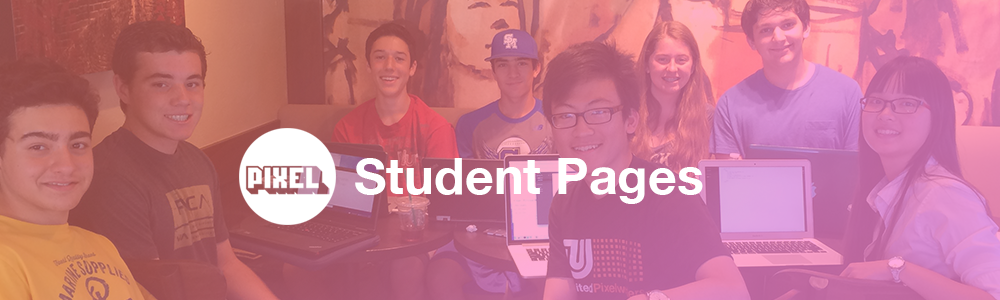
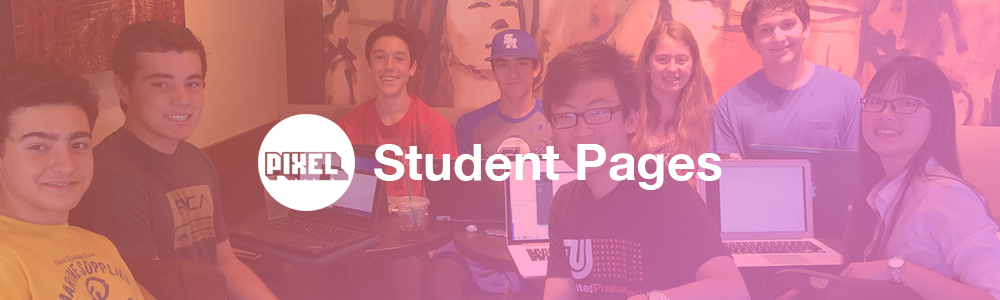
Added Gustavo's page and altered image

Changed region(s): [[0.217, 0.36, 0.744, 0.75]]

diff --git a/students/gustavozertuche/gustavozertuche.js b/students/gustavozertuche/gustavozertuche.js
@@ -1,0 +1,31 @@
+var pathObj = {
+    "sig": {
+        "strokepath": [
+            {
+                "path": "m 33.353553,70.274197 c 0.210305,-0.210305 0.435065,-0.407086 0.630915,-0.630914 0.173108,-0.197839 0.315457,-0.42061 0.473186,-0.630915 0.315458,-0.42061 0.637134,-0.836627 0.946372,-1.26183 0.532034,-0.731547 1.107843,-1.434999 1.577287,-2.208202 0.427093,-0.703446 0.736068,-1.472134 1.104101,-2.208202 3.068522,-6.137043 1.713244,-3.186974 4.731862,-10.410094 0.636263,-1.522487 1.322299,-3.025782 1.892744,-4.574133 0.90241,-2.449399 1.650734,-4.953187 2.523659,-7.413249 1.273495,-3.588941 3.071231,-8.057772 4.258675,-11.829653 0.409878,-1.301965 0.717346,-2.634198 1.104101,-3.943218 0.296826,-1.004642 0.645354,-1.993451 0.946373,-2.996845 0.172254,-0.57418 0.338391,-1.150906 0.473186,-1.735016 0.02364,-0.10246 0.07435,-0.241103 0,-0.315457 -0.05258,-0.05258 -0.134216,0.08719 -0.157729,0.157728 -0.137102,0.411307 -0.210305,0.84122 -0.315457,1.26183 -0.280996,1.123983 -1.236973,4.083776 -1.104101,5.678234 0.05401,0.648085 0.03208,1.414878 0.473186,1.892744 0.814137,0.881982 2.284312,-0.292299 2.681388,-0.788644 1.399702,-1.749627 2.756199,-4.72042 3.785489,-6.624605 0.955162,-1.767051 1.248862,-2.269467 2.36593,-3.785489 0.3556,-0.4826 0.680218,-0.995675 1.104101,-1.419559 0.07435,-0.07435 0,0.210305 0,0.315458 0,0.745517 0.02889,0.04218 -0.315457,1.419558 -2.055796,8.223185 0.435712,-1.34025 -1.577287,6.309149 -1.262048,4.79578 -2.126795,8.275884 -3.62776,13.091482 -0.529395,1.698476 -1.08825,3.38998 -1.735016,5.047319 -2.417999,6.196122 -3.735587,9.110406 -6.940063,14.826498 -1.58223,2.822357 -2.582655,4.342354 -5.205048,6.309148 -0.399025,0.29927 -0.973434,0.696249 -1.419558,0.473187 -2.051393,-1.025697 -1.762416,-4.726598 -1.735016,-6.15142 0.05081,-2.641832 1.202563,-7.834991 1.892745,-9.936908 0.442573,-1.347836 1.959105,-5.099849 3.470031,-6.466877 0.878926,-0.795219 2.26111,-1.804698 3.312303,-0.473187 0.526323,0.666676 0.750615,1.539401 0.946372,2.365931 0.406599,1.716749 0.552577,4.625937 0.630915,6.466877 0.122475,2.878161 0.114861,5.80848 0.473186,8.675079 0.06876,0.550096 0.680887,3.62563 1.26183,4.100946 0.272969,0.223338 0.707148,-0.214027 0.946372,-0.473186 0.41588,-0.450537 0.679313,-1.025364 0.946372,-1.577287 3.295316,-6.810319 -0.643789,0.250719 3.312303,-6.782334 0.300599,-0.534397 0.578489,-1.086776 0.946372,-1.577287 0.267675,-0.3569 0.500249,-0.946373 0.946373,-0.946373 0.659206,0 0.47567,2.170946 0.473186,2.208202 -0.02473,0.370947 -0.125979,0.733689 -0.157729,1.104101 -0.02591,0.302278 -0.4721,5.161519 -0.315457,6.466877 0.07748,0.6457 0.258348,1.278923 0.473186,1.892745 0.289115,0.826043 0.725143,2.082223 2.050473,1.419558 0.536175,-0.268087 0.830557,-0.886147 1.104101,-1.419558 0.784413,-1.529605 1.437635,-3.125803 2.050473,-4.731862 2.4011,-6.292538 2.512849,-7.266449 4.258675,-13.40694 3.253714,-11.444098 2.300675,-8.656148 6.309149,-20.031545 0.762863,-2.164884 1.481447,-4.348772 2.36593,-6.466877 1.115008,-2.670151 2.281428,-5.325121 3.62776,-7.886436 0.814278,-1.549113 1.735526,-3.058137 2.839117,-4.416403 0.29654,-0.364973 0.958071,-0.989902 1.26183,-0.630915 0.586261,0.692854 0.473186,1.773781 0.473186,2.681388 0,2.004113 -0.258925,4.001063 -0.473186,5.993691 -0.311647,2.898312 -0.756791,5.780823 -1.104101,8.675078 -0.786083,6.550689 -1.33778,11.967706 -1.577287,18.769717 -0.125809,3.572969 -0.04062,7.150598 0,10.725552 0.02597,2.285145 0.394643,6.450233 0.788643,8.359621 0.332792,1.612758 0.946373,3.154574 1.419559,4.731861",
+                "duration": 1800
+            },
+            {
+                "path": "m 61.271534,39.674828 c 3.760404,-0.827491 7.439435,-2.003716 11.198738,-2.839116 2.778155,-0.617368 5.568964,-1.176885 8.359622,-1.735016 3.255745,-0.651149 6.506695,-1.331747 9.77918,-1.892745 2.249861,-0.38569 4.522595,-0.623552 6.782334,-0.946372 10.842802,-1.548972 6.903302,-0.896671 14.984222,-2.36593",
+                "duration": 600
+            },
+            {
+                "path": "m 73.574373,21.851484 c 1.849525,-1.54127 0.579091,-0.605002 4.100947,-2.36593 0.841219,-0.42061 1.647814,-0.919108 2.523659,-1.26183 3.302393,-1.29224 6.139745,-2.028568 9.621451,-2.681388 0.606885,-0.113791 4.227368,-0.810319 4.88959,0.315458 0.362577,0.616381 -0.249893,1.44532 -0.630915,2.050473 -1.204079,1.912361 -6.002813,5.392693 -6.940063,6.151419 -1.684891,1.36396 -3.376048,2.720332 -5.047319,4.100947 -0.747414,0.61743 -1.564129,1.168162 -2.208201,1.892744 -0.220916,0.24853 -0.647636,0.961471 -0.315458,0.946372 1.739922,-0.07909 6.231959,-2.146835 7.728707,-2.681388 2.348619,-0.838792 4.680155,-1.75387 7.097792,-2.36593 1.751559,-0.443433 3.555958,-0.788644 5.362776,-0.788644 0.496001,0 1.413611,0.316435 1.261831,0.788644 -1.216198,3.78372 -9.029958,8.270023 -10.725554,9.463722 -3.863709,2.720052 -7.808119,5.324249 -11.671924,8.044164 -8.424598,5.930474 -14.43972,10.274887 -22.397476,16.561515 -1.9333,1.527307 -3.80369,3.132985 -5.678234,4.731861 -0.08945,0.07629 0.224648,-0.08306 0.315458,-0.157729 2.277489,-1.872603 4.43584,-3.892858 6.782334,-5.678233 4.91279,-3.737993 9.874301,-7.419649 14.984227,-10.883281 7.460336,-5.056797 14.907265,-10.163292 22.712934,-14.66877 6.516465,-3.761343 13.419585,-6.810833 20.189275,-10.094637 22.55529,-10.940996 15.93857,-8.12824 33.12303,-14.511041",
+                "duration": 1800
+            }
+        ],
+        "dimensions": {
+            "width": 154,
+            "height": 76
+        }
+    }
+}; 
+ 
+     $(document).ready(function(){ 
+ $('#sig').lazylinepainter( 
+ {
+    "svgData": pathObj,
+    "strokeWidth": 2,
+    "strokeColor": "#000099"
+}).lazylinepainter('paint'); 
+ });

diff --git a/students/gustavozertuche/gustavozertuche.html b/students/gustavozertuche/gustavozertuche.html
@@ -1,0 +1,123 @@
+<!DOCTYPE html>
+<head>
+  <title>Gustavo Zertuche</title>
+    <link rel="stylesheet" href="https://maxcdn.bootstrapcdn.com/bootstrap/3.3.1/css/bootstrap.min.css">
+    <script src="https://ajax.googleapis.com/ajax/libs/jquery/2.1.3/jquery.min.js"></script>
+    <link rel="stylesheet" href="https://ajax.googleapis.com/ajax/libs/jqueryui/1.11.3/themes/smoothness/jquery-ui.css" />
+    <script src="https://ajax.googleapis.com/ajax/libs/jqueryui/1.11.3/jquery-ui.min.js"></script>
+    <script src="gustavozertuche.js"></script>
+  <script src="https://ajax.googleapis.com/ajax/libs/jquery/2.1.3/jquery.min.js"></script>
+    <script src="https://maxcdn.bootstrapcdn.com/bootstrap/3.3.1/js/bootstrap.min.js"></script>
+    <script src="gustavozertuche_jQuery.js"></script>
+  <script src="llp-1.5.1.min.js"></script>
+      <meta name="viewport" content="width=device-width, initial-scale=1">
+</head>
+  <style type="text/css">
+    body {
+      background-color: #cccccc;
+    }
+    .heading {
+      text-align: center;
+    }
+    .content {
+      text-align: center;
+    }
+    .jumbotron.content {
+      background-size: 100%;
+    }
+    #contentone {
+      background-image: url('http://i.kinja-img.com/gawker-media/image/upload/s--hmq_6VI3--/c_fit,fl_progressive,q_80,w_636/hycwchbyyjdhr3fmhlgu.jpg');
+    }
+    #contenttwo {
+      background-image: url('http://pbs.twimg.com/media/CCHxVThVIAAQynB.jpg');
+      background-size: 100%;
+    }
+    #contentthree {
+    }
+    .jumbotron.content h2 {
+      font-family: 'Helvetica Neue', 'Arial', sans-serif;
+      color: #fff;
+      font-size: 36pt;
+      font-weight: 700;
+      text-shadow: 0 0 10px #000;
+      margin-top: 5%;
+    }
+    .jumbotron.content h2 a {
+      color: #fff;
+    }
+    .imgblured {
+      -webkit-filter: blur(5px);
+      filter: blur(5px);
+    };
+  </style>
+<body>
+  <!-- nav bar -->
+  <nav class="navbar navbar-default navbar-collapse">
+    <div class="container-fluid">
+      <div class="navbar-header">
+        <button type="button" class="navbar-toggle collapsed" data-toggle="collapse" data-target="#gustavo">
+          <span class="sr-only">Toggle navigation</span>
+          <span class="icon-bar"></span>
+          <span class="icon-bar"></span>
+          <span class="icon-bar"></span>
+        </button>
+        <a class="navbar-brand" href="tech_website.html">Tech Website</a>
+      </div>
+      <div class="" id="gustavo">
+        <ul class="nav navbar-nav" style="padding-left: 20px;">
+        <!-- testing search() -->
+          <li><a onclick="queryWithPrompt()" href="#"><span class="glyphicon glyphicon-search"></span></a></li>
+          <li><a href="#"><i class="glyphicon glyphicon-envelope"></i></a></li>
+          <li class="active"><a href="#">Home</a></li>
+          <li><a href="http://nest.sm/">News</a></li>
+          <li class="dropdown">
+          <a href="#" class="dropdown-toggle" data-toggle="dropdown" role="button" aria-expanded="false">Featured<span class="caret"></span></a>
+            <ul class="dropdown-menu" role="menu">
+              <li><a href="http://phoneadvisor.siterubix.com">PhoneAdvisor.com</a></li>
+            </ul>
+          <li><a href="http://ethanl.ee/">Contact</a></li>
+          <li class="dropdown">
+          <a href="#" class="dropdown-toggle" data-toggle="dropdown" role="button" aria-expanded="false">Reviews and Info
+            <span class="caret"></span>
+          </a>
+          <ul class="dropdown-menu" role="menu">
+          <!--<li class="divider"></li>-->
+            <li><a href="http://www.halowaypoint.com/en-us">Gaming</a></li>
+            <li><a href="http:www.phoneadvisor.siterubix.com">Phones</a></li>
+            <li><a href="#">PC's</a></li>
+            <li><a href="#">ethanl.ee</a></li>
+          </ul>
+          </li>
+        </ul>
+      <form onsubmit="queryWithNav()" class="navbar-form navbar-right" role="search">
+        <div class="form-group">
+          <div class="input-group">
+<!--            <div class="input-group-addon"><i class="glyphicon glyphicon-search"></i></div>-->
+            <input type="text" id="search-input" class="form-control" placeholder="Search">
+          </div>
+          <button type="submit" class="btn btn-default"><i class="glyphicon glyphicon-search"></i></button>
+        </div>
+      </form>
+    </div>
+  </div>
+</nav>
+<!-- end of nav bar -->
+<div class="container">
+  <div class="jumbotron">
+     <h1 class="heading">Gustavo Zertuche</h1>
+        <h2 class="heading">The official website of Gustavo Zertuche.  View his personal projects, websites, and social media accounts.</h2>
+          <div class="center-block" id="sig"></div>
+  </div>
+  <div class="jumbotron content" id="contentone">
+    <h2><a href="http:www.phoneadvisor.siterubix.com">Visit Phone Advisor to get the latest reviews on smartphones and other tech.</a></h2><!--
+    <img class="center-block" src="http://i.kinja-img.com/gawker-media/image/upload/s--hmq_6VI3--/c_fit,fl_progressive,q_80,w_636/hycwchbyyjdhr3fmhlgu.jpg">-->
+  </div>
+  <div class="jumbotron content" id="contenttwo">
+    <h2><a href="http://sports.yahoo.com/mlb/">Check the latest MLB stats, scores, and highlights</a></h2>
+  </div>
+  <div class="jumbotron content" id="contentthree">
+    <h2 id="expansionOne">Projects</h2>
+    <h2 id="expandedOne">Check out my latest projects at...</h2>
+  </div>
+  </div>
+</body>

diff --git a/students/gustavozertuche/gustavozertuche_jQuery.js b/students/gustavozertuche/gustavozertuche_jQuery.js
@@ -1,0 +1,51 @@
+$(document).ready(function() {
+  $('#contentone').mouseenter(function() {
+    $(this).animate({backgroundSize: '125%'}, 1000);
+  });
+  $('#contentone').mouseleave(function() {
+    $(this).animate({backgroundSize: '100%'}, 400);
+  });
+});
+
+$(document).ready(function() {
+  $('#contenttwo').mouseenter(function() {
+    $(this).animate({
+      backgroundPositionY: '50%'
+    }, 1000);
+  });
+  $('#contenttwo').mouseleave(function() {
+    $(this).animate({
+       backgroundPositionY: '0%'
+     }, 400);
+  });
+});
+
+$(document).ready(function() {
+  $('#expandedOne').hide();
+})
+
+$(document).ready(function() {
+  $('#contentthree').mouseenter(function() {
+    $('#expandedOne').show();
+    $('#expansionOne').slideUp();
+  });
+  $('#contentthree').mouseleave(function() {
+    $('#expandedOne').hide();
+    $('#expansionOne').slideDown();
+  })
+});
+/* img blur function */
+/*function blurElement(element, size) {
+     var filterVal = 'blur(' + size + 'px)';
+     $(element)
+         .css('filter', filterVal)
+         .css('webkitFilter', filterVal)
+         .css('mozFilter', filterVal)
+         .css('oFilter', filterVal)
+         .css('msFilter', filterVal)
+         .css('transition', 'all 0.5s ease-out')
+         .css('-webkit-transition', 'all 0.5s ease-out')
+         .css('-moz-transition', 'all 0.5s ease-out')
+         .css('-o-transition', 'all 0.5s ease-out');
+
+ }*/

diff --git a/index.html b/index.html
@@ -24,6 +24,16 @@
         background-color: rebeccapurple;
       }
       
+      @media (max-width: 767px) {
+        .navbar-default .navbar-nav .open .dropdown-menu > li > a {
+          color: white;
+        }
+        .navbar-default .navbar-nav .open .dropdown-menu > li > a:hover {
+          background-color: rebeccapurple;
+          color: white;
+        }
+      }
+      
       .container-fluid.fullwidth {
         margin: 0;
         padding: 0;
